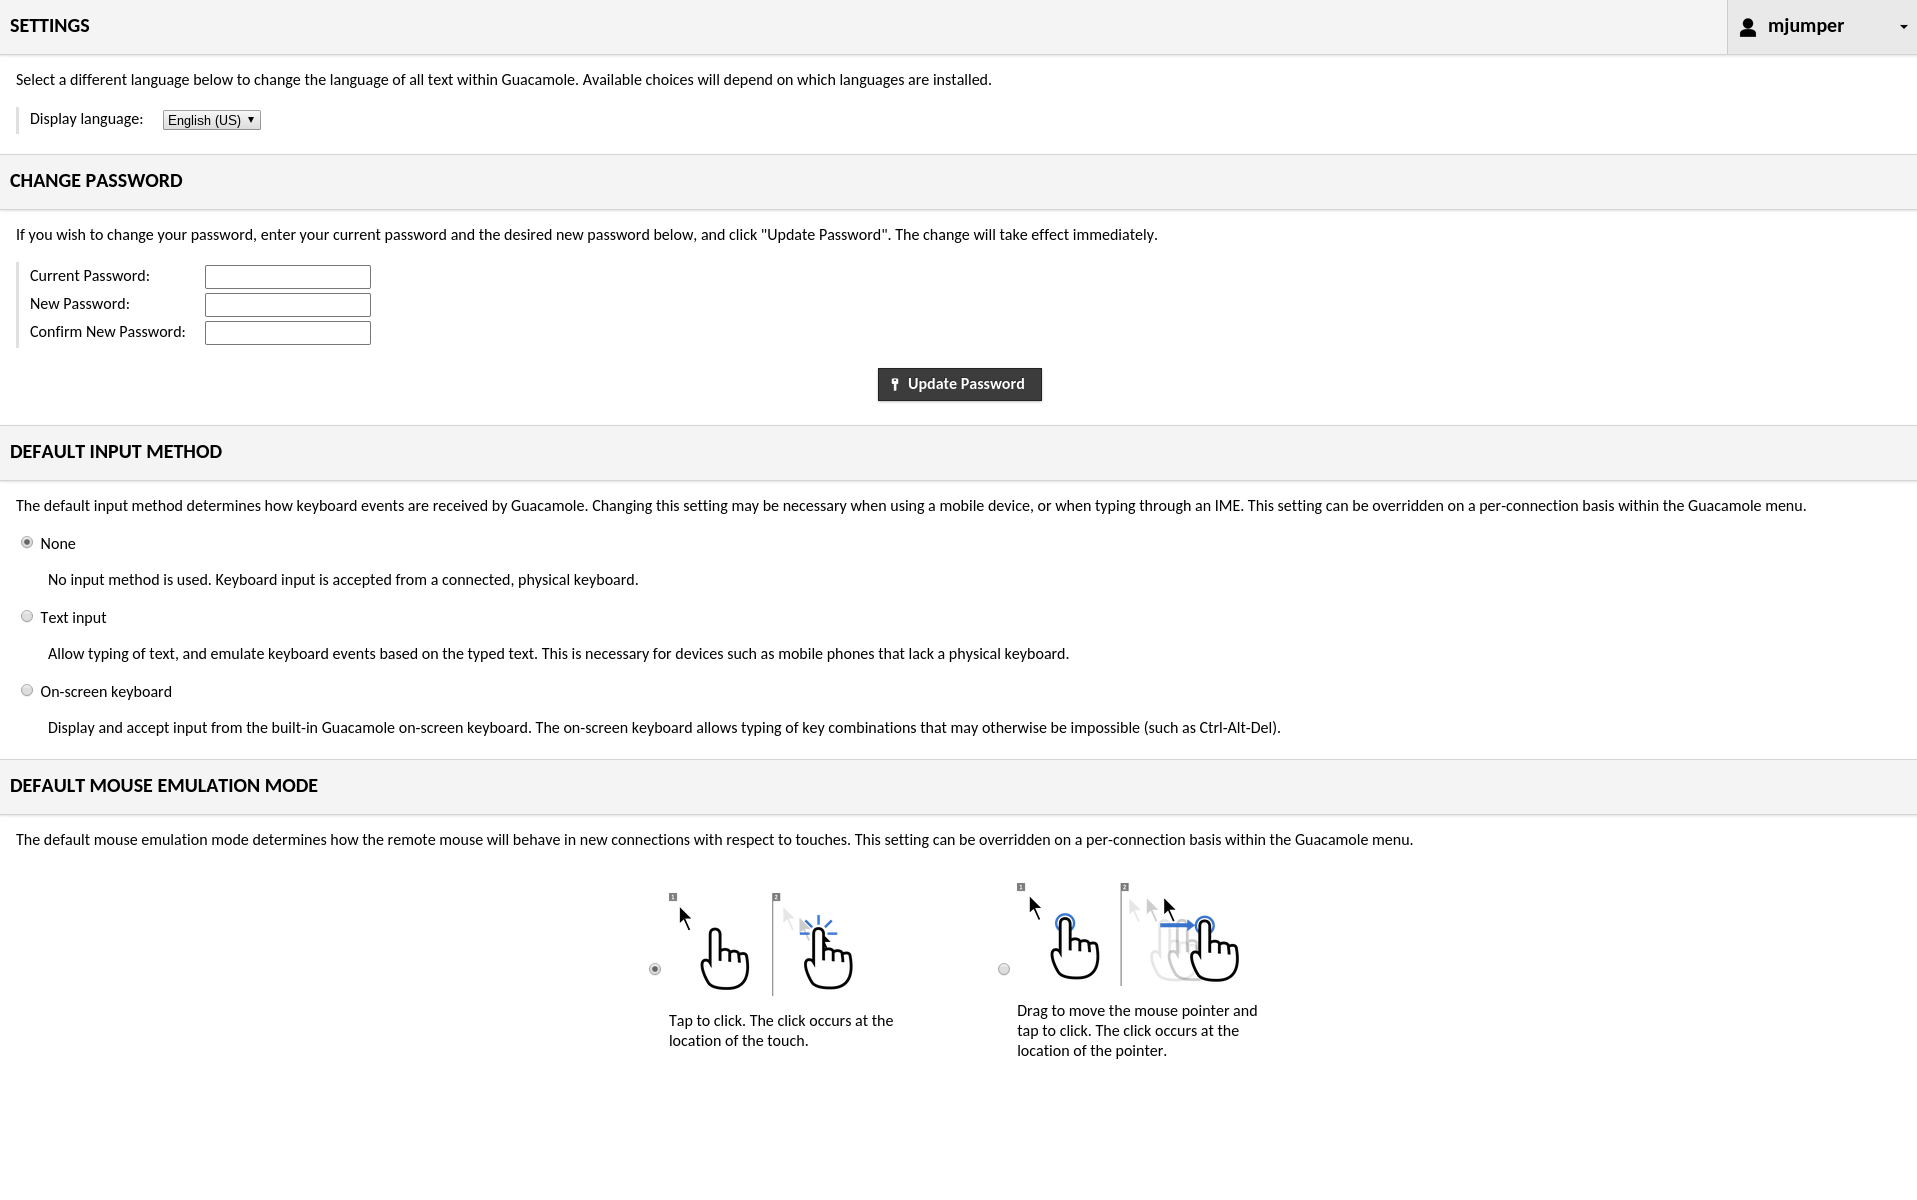
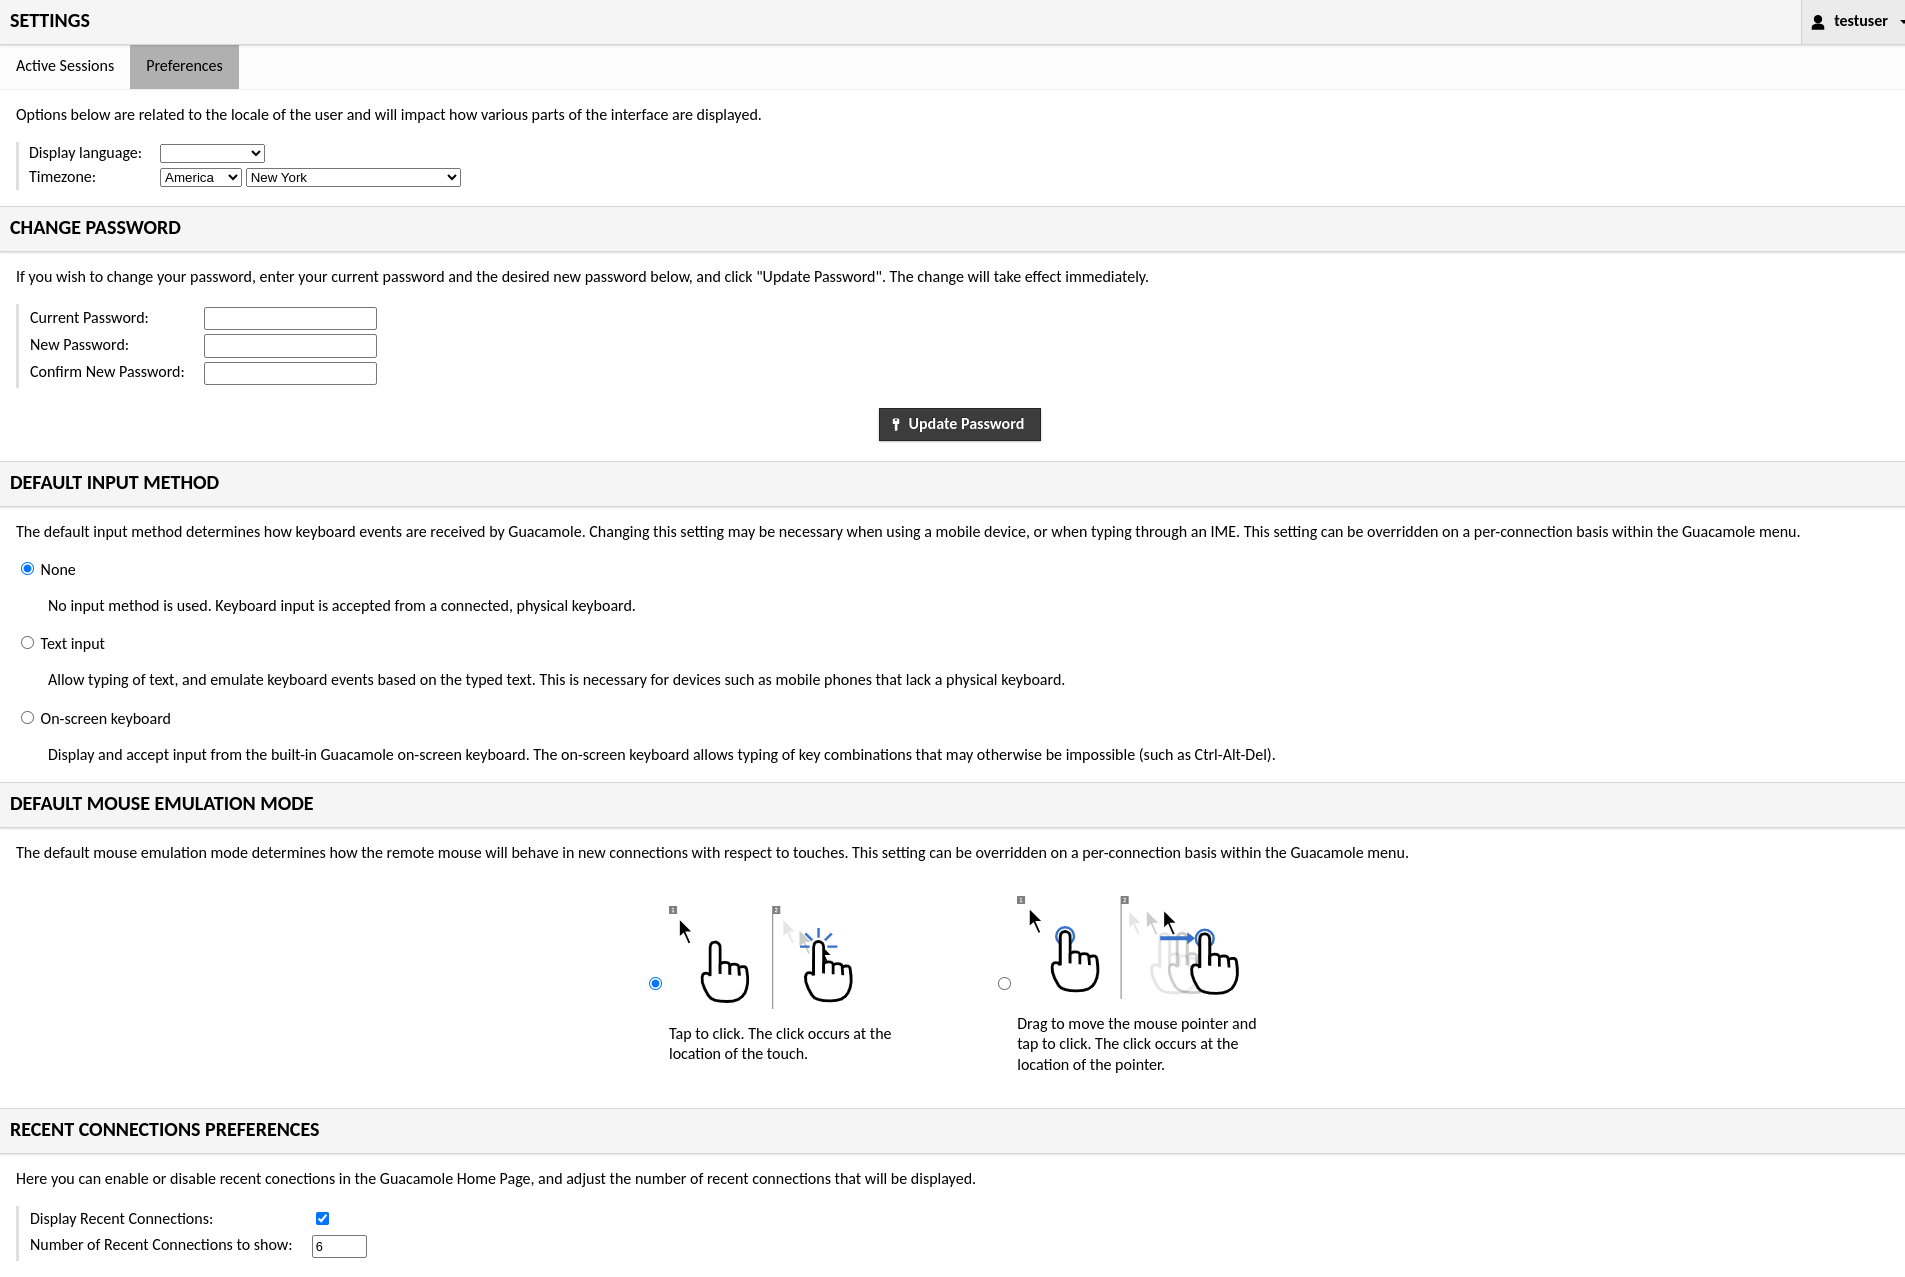
GUACAMOLE-1866: Update documentation to reflect recent connection preferences.

diff --git a/src/using-guacamole.md b/src/using-guacamole.md
@@ -507,3 +507,10 @@ The choices available mirror those within the Guacamole menu discussed earlier
 in this chapter, and changing these settings will affect the default values
 selected within the Guacamole menu of future connections.
 
+### Recent connection settings
+
+The user interface can be configured with regard to whether recent connections
+are displayed and how many are tracked. The default setting is to track the most
+recent 6 connections, but you can use the checkbox to disable the recent
+connections area altogether, or you can adjust the number of recent
+connections kept in history from the default of 6.
